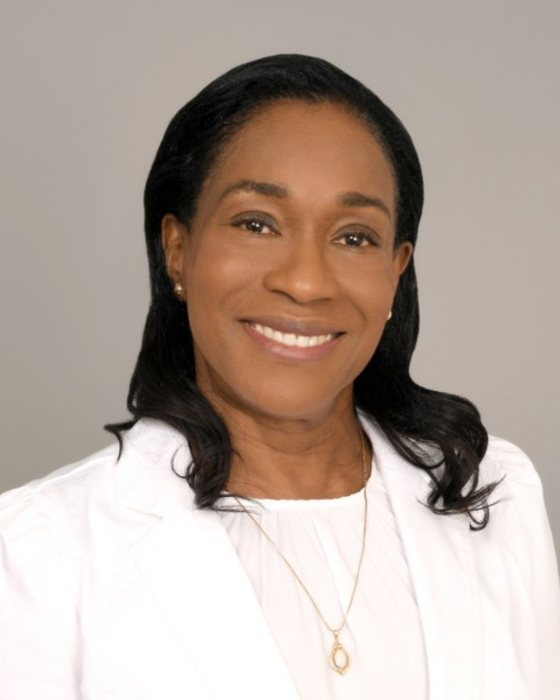
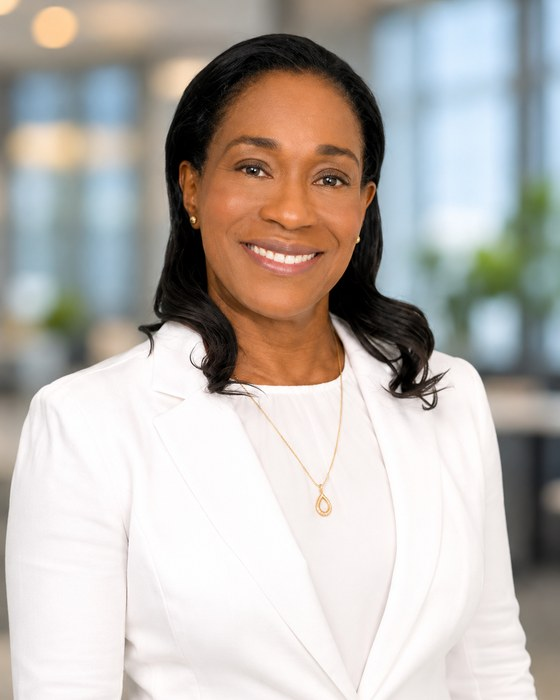
About Us: new headshots for Gilbert, Eric and Jean; Volt bios for Eric and Jean
Claude-Session: https://claude.ai/code/session_01Y88u6Pv9KQcZxehpsKVYXW

diff --git a/index.html b/index.html
@@ -1093,7 +1093,7 @@ window.addEventListener('hashchange',route); route();
  b.addEventListener('click',()=>{v.paused?v.play().catch(()=>{}):v.pause();});
  v.play?.().catch(()=>set(false));})();
 
-const LEADERS=[["Lauren Strickland", "img/team/lauren-strickland.jpg", "Deputy Executive Director", ["Sharing the Power Foundation"], "Lauren Strickland is the Deputy Executive Director for the Sharing the Power Foundation. She previously served as the Director of Clean Jobs and Environmental Justice Programs for the Foundation, a national philanthropic non-profit that advances environmental justice and an inclusive clean energy future through grantmaking and seeding the next generation of environmental leaders. In this role, Lauren leads special programs and supports strategic efforts for the Foundation.|Lauren is an inaugural 2023 Dream.Org Green for All Business Council Fellow. The fellowship provides clean energy career opportunities for fellows with leading diverse-owned clean tech firms. Prior to joining the Sharing the Power Foundation, Lauren worked as a business development executive in the hospitality industry for over ten years, developing innovative strategies and leading expansion efforts for leading hospitality groups. She has been recognized as Leader of the Year by the Denihan Hospitality Group.|Lauren is a lifelong social justice advocate. She served on the board of IMPACT, a political advocacy and social impact non-profit based in Washington, DC, where she oversaw key partnerships with Capitol Hill and other key lawmakers across the country. Lauren has served on KIPP DC’s Ambassador Board and has worked with two presidential campaigns and various state-level campaigns. Lauren graduated from Howard University with a Journalism degree from Howard’s School of Communications."], ["Tylitha H. Stewart", "img/team/tylitha-h-stewart.jpg", "Senior Advisor", ["Sharing the Power Foundation"], "Tylitha H. Stewart, Senior Advisor, assists Sharing the Power in strategic planning and operational efficiency. She has extensive experience and proven success as an executive strategist, operator, and transformation advisor who has spent more than two decades building businesses, products, and growth strategies across Fortune 50 companies, the public sector, and non-profit organizations.|Tylitha served as SVP and Global Head of Consumer Digital Services at Hewlett-Packard (HP) and spent roughly a decade at Microsoft, where her work ranged from finance and business performance to product marketing and ultimately global consumer strategy and go-to-market for Surface Devices & Accessories. Her executive resume documents responsibility for global product management, strategy and planning for a $4 billion first-party devices and accessories business across 46 markets, as well as earlier responsibility for investment strategy and performance across Microsoft’s multi-billion-dollar devices business.|Tylitha is also Founder and Principal of Vayana Consulting, a strategy and transformation advisory firm helping leaders and organizations turn ambitious ideas into clear strategies and measurable results."], ["Jaron Dandridge", "img/team/jaron-dandridge.jpg", "Director of Community Engagement and Program Evaluation", [], "Jaron Dandridge serves as the Director of Community Engagement and Program Evaluation for Sharing the Power Foundation, overseeing outreach to the awardee organizations which receive foundation grants. He maintains a specific focus on evaluating the organizations’ overall effectiveness in accomplishing the primary funding objectives and measuring the use of grant funds across major impact categories, which may include: services that provide assistance and programs to communities in need of access to clean air, water and renewable energy; workforce training opportunities in clean energy careers; home weatherization and utility bill payment assistance; and outreach programs to small and diverse businesses geared towards participation in the clean energy economy. Jaron also engages in community needs assessment designed to provide corporate partners with recommendations on historically marginalized communities which may need assistance.|Jaron has been a champion of community engagement throughout his professional career. As a member of the Henrico County Planning Commission in his hometown of Richmond, Virginia, he is an advisor to the municipal governing body on issues and policies affecting numerous community stakeholders relating to energy, planning, land use regulations, rezoning requests, and development. An engineer by training, Jaron spent a large portion of his professional career as a manufacturing manager for several large companies across Virginia and Maryland, where he was recognized as a standout leader and spearheaded several continuous improvement projects.|Jaron received his Bachelor of Science in Electrical Engineering from Hampton University. Before transitioning to management, his career included working as a Nuclear Test Engineer for Newport News Shipbuilding, now Northrop Grumman. Most recently, he worked in the aerospace industry as a manager at Eaton Corporation in Beltsville, Maryland. Jaron also serves as a liaison between the foundation and Volt Energy Utility, which established the Sharing the Power Foundation as an independent not-for-profit entity."], ["Destiny Okonkwo", "img/team/destiny-okonkwo.jpg", "Fellowship Operations & Partnerships Lead", ["Sharing the Power Foundation"], "Destiny Okonkwo serves as the Fellowship Operations & Partnerships Lead at the Sharing the Power Foundation, where she oversees key aspects of the Foundation’s HBCU Energy and Sustainability Fellowship, including program operations, Fellow engagement, professional development, and strategic partnerships. Through her work, she is committed to expanding opportunities and creating meaningful pathways for the next generation of leaders in clean energy, sustainability, and environmental justice.|Destiny earned both her Master of Public Administration, with a concentration in Urban Planning and Environmental Policy, and her Bachelor of Arts in Political Science from Texas Southern University. Her professional and academic experiences reflect her passion for environmental justice, public policy, community development, and energy equity."], ["Jean Nelson-Houpert", "img/team/jean-nelson-houpert.jpg", "Financial Counselor", ["Sharing the Power Foundation"], "Jean Nelson-Houpert is the Chief Financial Officer (CFO) of Volt Energy Utility, a national minority-owned utility-scale developer in Washington, DC, and the Financial Counselor at Sharing the Power Foundation. She oversees all financial aspects of the company, ensuring its continued success and stability. Jean volunteers financial counsel to the Sharing the Power Foundation to support organizations that provide services to urban and rural communities disproportionately affected by climate change, air and water pollution, and inaccessibility to renewable energy opportunities.|With over 25 years of experience in finance, public, and corporate accounting, Jean served as the inaugural Chief Financial Officer and Interim CEO at the DC Green Bank for three years, leading the organization from its inception until September 2023. She began her career in public accounting as a financial institution specialist with Grant Thornton, LLP, and has served in corporate positions as interim CEO, Chief Financial Officer, and Director of Accounting at various organizations.|Jean received her Bachelor of Business Administration (BBA) in Finance, graduating cum laude from Temple University’s Fox School of Business, and a Master of Jurisprudence in Labor and Employment from Tulane Law School. She also holds a certification from Columbia Business School in environmental, social, and governance (ESG) investing and a certificate in Sustainable Management.|Jean serves on the Board of Directors of Women of Renewable Industries and Sustainable Energy (WRISE), the Advisory Council of the Washington Area Community Investment Fund (Wacif), and the advisory boards of Village Capital and Halcyon House."], ["Gilbert Campbell", "img/team/gilbert-campbell.jpg", "Foundation Board Chair", ["Founder & CEO", "Volt Energy Utility"], "Gilbert Campbell is the founder and chief executive officer of Volt Energy Utility, a national clean energy firm that develops utility-scale solar and energy storage projects. Under his leadership, Volt has successfully developed over 350 MW of utility-scale solar projects for Fortune 100 corporations. These projects include significant investment in local communities through the Community Impact Power Purchase Agreement (PPA) model Volt pioneered. Volt signed a historic deal with Microsoft to deliver 250 MW of utility-scale solar under its Community Impact PPA model. Volt has also developed utility-scale solar projects for Google and other companies under this model.|Campbell chairs the board of Sharing the Power Foundation, an independent 501(c)(3) nonprofit established by Volt to help carry out those community commitments. The foundation works with local organizations to support workforce and economic development, energy affordability, STEM education, and community health. It has invested more than $4 million in rural and urban communities across the country, including $1 million in scholarships for students at historically Black colleges and universities.|Campbell advocates for energy policies that accelerate clean energy deployment, support workforce and economic development, and benefit local communities. He regularly advises federal and local officials, corporations, and other stakeholders on energy policy and best practices. He has worked closely with members of Congress from both parties on clean energy legislation and has testified before Congress on several occasions.|Campbell serves on the boards of the Solar Energy Industries Association and the American Association of Blacks in Energy, where he chairs the Entrepreneurship Committee. He recently completed his term on the board of the Clean Energy Buyers Alliance (CEBA) and previously served on the 3Degrees Advisory Board.|In 2016, the Obama administration recognized Campbell’s leadership in advancing climate equity with a White House Champions of Change Award. He was also named to EBONY magazine’s Power 100 list and received the Amtrak and Washington Wizards Pioneer Award. Campbell graduated magna cum laude from Howard University with a B.B.A. in finance and completed postgraduate leadership training at Harvard University."], ["Eli Hopson", "img/team/eli-hopson.jpg", "Foundation Board Member", ["Executive Director & Chief Operating Officer", "Coalition for Green Capital"], "Eli Hopson is the Executive Director and Chief Operating Officer at the Coalition for Green Capital, which works to create and serve sustainable finance institutions that serve low income and disadvantaged communities. Previously Eli served as the inaugural CEO of the DC Green Bank, Vice President of Legal and Chief Compliance Officer at Eagle Creek Renewable Energy and its predecessor Cube Hydro Partners.|Hopson’s experience also includes roles at Latham & Watkins LLP, the Union of Concerned Scientists, the U.S. House of Representatives Committee on Science, Georgetown Climate Center, and the Office of Energy Efficiency and Renewable Energy at the U.S. Department of Energy. He received his bachelor’s degree and Master of Engineering in environmental engineering from the Massachusetts Institute of Technology, and a law degree from the Georgetown University Law Center."], ["Dr. Pamela Carpenter", "img/team/pamela-carpenter.jpg", "Foundation Board Member", ["Founder", "The Healing Oak, LLC"], "Dr. Pam Page Carpenter is the Founder of The Healing Oak, LLC. She has served as the Director of Education and Workforce programs for the PowerAmerica Institute and the Future Renewable Electric Energy Delivery and Management (FREEDM) Systems Center headquartered at North Carolina State University.|Dr. Carpenter has developed and led science, technology, engineering, and mathematics (STEM) programs for secondary and post-secondary education for renewable energy, sustainability, and alternative transportation. She was affiliated associate professor in the Technology, Engineering, and Design department at NC State and earned her doctorate in Technology, Engineering, and Design in the College of Education at NC State University. She is a consultant in clean energy education, training, and workforce. Dr. Carpenter is also a psychotherapist working with clients in a holistic and wellness model to empower her clients. She lives in Raleigh, NC."], ["Nedra Dickson", "img/team/nedra-dickson.jpg", "Foundation Board Member", ["Managing Director", "Accenture"], "Nedra Dickson, Managing Director, leads Accenture’s Client Global Supplier Diversity and Sustainability Programs across 20 countries. With strong expertise in procurement transformation and supplier relationship management, she has managed over $2B in contingent labor spend.|Within her current roles, Nedra oversees Accenture’s procurement and client opportunities with diverse-owned businesses globally. To create an inclusive procurement community, Nedra is credited with expanding Accenture’s award-winning, world-renowned diverse supplier mentoring program, the Diverse Supplier Development Program (DSDP). This program represents a customized curriculum set around helping to grow and develop diverse businesses, to support their successful integration into Accenture’s global supply chain.|Nedra holds several Board of Director positions within the supplier diversity community: Women Business Enterprise National Council (WBENC), Georgia Minority Supplier Diversity Council (GMSDC), Canadian Aboriginal Supplier Development Council (CAMSC), Disability:IN, National LGBT Chamber of Commerce (NGLCC), and Founding Board Member of GSDA – Global Supplier Diversity Alliance.|Nedra was recognized by Atlanta Business Chronicle as one of the Top Diversity and Inclusion Officers of Atlanta, Global Supplier Diversity Champion by NGLCC, Georgia Top 25 Women in their Female Success Factor Series, WE magazine as one of America’s Top 100 Leaders in Corporate Supplier Diversity, Top 25 Women in Power Impacting Diversity, WBENC Corporate Mentor of the Year, USAPCC-SE region Mentor of the Year, Top 30 Champions in Diversity, and she was selected in Leadership Atlanta – class of 2022.|Nedra grew up in Arkansas and holds an MBA from the University of Southern California, a BS degree from Florida State University and a BA degree from California State University, Northridge. Nedra enjoys traveling and has been to over 65 countries. She also enjoys reading and playing golf in her spare time."], ["Paula Glover", "img/team/paula-glover.jpg", "Foundation Board Member", ["President", "Alliance to Save Energy"], "Paula R. Glover has served as President of the Alliance to Save Energy since January 2021 and has been a member of the Board of Directors since 2017. Ms. Glover is the seventh president in the Alliance’s 45-year history. Her leadership at the Alliance is driven by her belief that universal adoption of energy efficiency is foundational to achieving energy affordability, economic growth, and decarbonization. She is responsible for working with the Alliance’s diverse coalition of stakeholders to find lasting, consensus-based solutions. During her tenure, the Alliance has secured billions of dollars in federal funding for energy efficiency programs, amplified its work on energy justice, and worked to advance the next generation of technologies with the Active Efficiency Collaborative.|Ms. Glover previously served as President and CEO of the American Association of Blacks in Energy, a non-profit professional association whose focus is to ensure that African Americans and other minorities have input into the discussions and development of energy policy, regulations, and environmental issues. She serves on the board of the Keystone Policy Center and Groundswell, a community solar development organization. She is also a Trustee for Cardigan Mountain School, a junior boarding school in Canaan, NH. She received her B.S. in Marketing Management from the University of Delaware."], ["Dr. Janelle Burke", "img/team/janelle-burke.jpg", "Foundation Board Member", ["Director of the Interdisciplinary Environmental Studies Program", "Howard University"], "Dr. Janelle Burke is an Associate Professor of Biology and Director of the Interdisciplinary Environmental Studies Program at Howard University. Trained as a botanist, her research expertise is in plant evolution and diversity.|At Howard University, she has served in a leadership role to develop and grow the Environmental Studies and Science program, which was launched in 2016. She has also been instrumental in securing multiple grants and partnerships to support this program and its associated student opportunities. She has a passion for developing innovative, interdisciplinary curricula that prepare HBCU students for leadership roles in environmental and sustainability careers."], ["Dr. Olubemiga Olatidoye", "img/team/olubemiga-olatidoye.jpg", "Foundation Board Member", ["Professor of Engineering", "Clark Atlanta University"], "Dr. Olugbemiga Olatidoye is a Professor of Engineering and the Founder and Director of the Visualization, Simulation and Design Laboratory (ViSiDeL), a virtual reality lab, at Clark Atlanta University (CAU). Other centers that he directs at CAU are the Center for Alternative, Renewable Energy, Technology and Training (CARET2), Atlanta University Center (AUC) Sustainable Campus Community Initiatives (ASCCI), Center for Additive Manufacturing (CAM), Atlanta Electronic Commerce Resource Center (AECRC), Army High Performance Computing Research Center (AHPCRC) and DoD Major Shared Resource Center (Army Research Laboratory (ARL), Army Corps of Engineers Waterways Experiment Station (CEWES), Aeronautical Systems Center (ASC) Wright-Patterson Air Force Base) and Georgia Industrial Assessment Center (GIAC). All centers are Department of Defense (DoD) and Department of Energy (DOE) funded projects.|He served as the Coordinator of the Dual Degree Engineering Program at CAU, which led to the creation of the Engineering Department at CAU in 1994. Dr. Olatidoye received his Bachelor’s degree in Architectural Engineering in the area of Structures from North Carolina A&T State University in 1982. He completed his Master’s degree in Architecture at Virginia Polytechnic Institute and State University, and a Master’s degree in Civil Engineering in Engineering Computer Graphics at Georgia Tech, Atlanta. Other degrees from Georgia Tech are in Knowledge Engineering and a Doctorate with emphasis on Intelligent Graphics. He was a member of the Board of Directors at Georgia Tech."], ["Eric Grant", "img/team/eric-grant.jpg", "Foundation Board Member", ["Partner", "Volt Energy Utility"], "Eric is responsible for Volt’s external affairs, marketing and communications. He also directs the management and governance of the Environmental Justice Community Impact Fund, as stipulated in the Environmental Justice Power Purchase Agreement™.|Eric has over 20 years of experience in the energy sector. As former vice president of government affairs and communications for WGL Energy and Washington Gas, he directed the company’s multi-state government and public affairs, federal government affairs, external and crisis communications, media relations, branding and corporate giving. His government affairs team led the lobbying efforts for the landmark utility infrastructure repair and replacement law in Maryland and the District of Columbia. Early in his career, he served as manager of state government affairs at The American Petroleum Institute. For almost a decade, he served as spokesperson, director of communications, public affairs and corporate philanthropy at The Washington Post.|His non-profit experience includes five years as director of cause marketing and mega city grants for Special Olympics, Inc., structuring major corporate sponsorships with such companies as Lands’ End, Subaru, Raymond Co., AMF, and Hoyle Cards. He has served on several boards including Volt Energy, LLC, the DC and Maryland Chambers of Commerce, Red Cross – National Capital Region, and the Black Student Fund. Eric is a graduate of Dartmouth College and the Landegger International Business Executive Program at Georgetown University."]];
+const LEADERS=[["Lauren Strickland", "img/team/lauren-strickland.jpg", "Deputy Executive Director", ["Sharing the Power Foundation"], "Lauren Strickland is the Deputy Executive Director for the Sharing the Power Foundation. She previously served as the Director of Clean Jobs and Environmental Justice Programs for the Foundation, a national philanthropic non-profit that advances environmental justice and an inclusive clean energy future through grantmaking and seeding the next generation of environmental leaders. In this role, Lauren leads special programs and supports strategic efforts for the Foundation.|Lauren is an inaugural 2023 Dream.Org Green for All Business Council Fellow. The fellowship provides clean energy career opportunities for fellows with leading diverse-owned clean tech firms. Prior to joining the Sharing the Power Foundation, Lauren worked as a business development executive in the hospitality industry for over ten years, developing innovative strategies and leading expansion efforts for leading hospitality groups. She has been recognized as Leader of the Year by the Denihan Hospitality Group.|Lauren is a lifelong social justice advocate. She served on the board of IMPACT, a political advocacy and social impact non-profit based in Washington, DC, where she oversaw key partnerships with Capitol Hill and other key lawmakers across the country. Lauren has served on KIPP DC’s Ambassador Board and has worked with two presidential campaigns and various state-level campaigns. Lauren graduated from Howard University with a Journalism degree from Howard’s School of Communications."], ["Tylitha H. Stewart", "img/team/tylitha-h-stewart.jpg", "Senior Advisor", ["Sharing the Power Foundation"], "Tylitha H. Stewart, Senior Advisor, assists Sharing the Power in strategic planning and operational efficiency. She has extensive experience and proven success as an executive strategist, operator, and transformation advisor who has spent more than two decades building businesses, products, and growth strategies across Fortune 50 companies, the public sector, and non-profit organizations.|Tylitha served as SVP and Global Head of Consumer Digital Services at Hewlett-Packard (HP) and spent roughly a decade at Microsoft, where her work ranged from finance and business performance to product marketing and ultimately global consumer strategy and go-to-market for Surface Devices & Accessories. Her executive resume documents responsibility for global product management, strategy and planning for a $4 billion first-party devices and accessories business across 46 markets, as well as earlier responsibility for investment strategy and performance across Microsoft’s multi-billion-dollar devices business.|Tylitha is also Founder and Principal of Vayana Consulting, a strategy and transformation advisory firm helping leaders and organizations turn ambitious ideas into clear strategies and measurable results."], ["Jaron Dandridge", "img/team/jaron-dandridge.jpg", "Director of Community Engagement and Program Evaluation", [], "Jaron Dandridge serves as the Director of Community Engagement and Program Evaluation for Sharing the Power Foundation, overseeing outreach to the awardee organizations which receive foundation grants. He maintains a specific focus on evaluating the organizations’ overall effectiveness in accomplishing the primary funding objectives and measuring the use of grant funds across major impact categories, which may include: services that provide assistance and programs to communities in need of access to clean air, water and renewable energy; workforce training opportunities in clean energy careers; home weatherization and utility bill payment assistance; and outreach programs to small and diverse businesses geared towards participation in the clean energy economy. Jaron also engages in community needs assessment designed to provide corporate partners with recommendations on historically marginalized communities which may need assistance.|Jaron has been a champion of community engagement throughout his professional career. As a member of the Henrico County Planning Commission in his hometown of Richmond, Virginia, he is an advisor to the municipal governing body on issues and policies affecting numerous community stakeholders relating to energy, planning, land use regulations, rezoning requests, and development. An engineer by training, Jaron spent a large portion of his professional career as a manufacturing manager for several large companies across Virginia and Maryland, where he was recognized as a standout leader and spearheaded several continuous improvement projects.|Jaron received his Bachelor of Science in Electrical Engineering from Hampton University. Before transitioning to management, his career included working as a Nuclear Test Engineer for Newport News Shipbuilding, now Northrop Grumman. Most recently, he worked in the aerospace industry as a manager at Eaton Corporation in Beltsville, Maryland. Jaron also serves as a liaison between the foundation and Volt Energy Utility, which established the Sharing the Power Foundation as an independent not-for-profit entity."], ["Destiny Okonkwo", "img/team/destiny-okonkwo.jpg", "Fellowship Operations & Partnerships Lead", ["Sharing the Power Foundation"], "Destiny Okonkwo serves as the Fellowship Operations & Partnerships Lead at the Sharing the Power Foundation, where she oversees key aspects of the Foundation’s HBCU Energy and Sustainability Fellowship, including program operations, Fellow engagement, professional development, and strategic partnerships. Through her work, she is committed to expanding opportunities and creating meaningful pathways for the next generation of leaders in clean energy, sustainability, and environmental justice.|Destiny earned both her Master of Public Administration, with a concentration in Urban Planning and Environmental Policy, and her Bachelor of Arts in Political Science from Texas Southern University. Her professional and academic experiences reflect her passion for environmental justice, public policy, community development, and energy equity."], ["Jean Nelson-Houpert", "img/team/jean-nelson-houpert.jpg", "Financial Counselor", ["Sharing the Power Foundation"], "Jean Nelson-Houpert is the Chief Financial Officer (CFO) of Volt Energy Utility, a national Minority-Owned utility-scale developer in Washington, DC, and the Financial Counselor at Sharing The Power Foundation. She oversees all financial aspects of the company, ensuring its continued success and stability. Additionally, Jean volunteers financial counsel to the Sharing the Power Foundation, the nonprofit arm of Volt Energy Utility, to support organizations that provide services to urban and rural communities disproportionately affected by climate change, air and water pollution, and inaccessibility to renewable energy opportunities.|With over 25 years of experience in finance, public, and corporate accounting, Jean served as the inaugural Chief Financial Officer and Interim CEO at the DC Green Bank for three years, leading the organization from its inception until September 2023. She began her career in public accounting as a financial institution specialist with Grant Thornton, LLP. She served incorporate positions as interim CEO, Chief Financial Officer, and Director of Accounting at various organizations.|Jean received her Bachelor of Business Administration (BBA) in Finance, graduating cum laude from Temple University's Fox School of Business, and acquired a Master of Jurisprudence in Labor and Employment from Tulane Law School. She also holds a certification from Columbia Business School in environmental, social, and governance (ESG) Investing and a certificate in Sustainable Management. Jean serves on the Board of Directors of Women of Renewable Industries and Sustainable Energy (WRISE), the Advisory Council of the Washington Area Community Investment Fund (Wacif), and the advisory boards of Village Capital and Halcyon House."], ["Gilbert Campbell", "img/team/gilbert-campbell.jpg", "Foundation Board Chair", ["Founder & CEO", "Volt Energy Utility"], "Gilbert Campbell is the founder and chief executive officer of Volt Energy Utility, a national clean energy firm that develops utility-scale solar and energy storage projects. Under his leadership, Volt has successfully developed over 350 MW of utility-scale solar projects for Fortune 100 corporations. These projects include significant investment in local communities through the Community Impact Power Purchase Agreement (PPA) model Volt pioneered. Volt signed a historic deal with Microsoft to deliver 250 MW of utility-scale solar under its Community Impact PPA model. Volt has also developed utility-scale solar projects for Google and other companies under this model.|Campbell chairs the board of Sharing the Power Foundation, an independent 501(c)(3) nonprofit established by Volt to help carry out those community commitments. The foundation works with local organizations to support workforce and economic development, energy affordability, STEM education, and community health. It has invested more than $4 million in rural and urban communities across the country, including $1 million in scholarships for students at historically Black colleges and universities.|Campbell advocates for energy policies that accelerate clean energy deployment, support workforce and economic development, and benefit local communities. He regularly advises federal and local officials, corporations, and other stakeholders on energy policy and best practices. He has worked closely with members of Congress from both parties on clean energy legislation and has testified before Congress on several occasions.|Campbell serves on the boards of the Solar Energy Industries Association and the American Association of Blacks in Energy, where he chairs the Entrepreneurship Committee. He recently completed his term on the board of the Clean Energy Buyers Alliance (CEBA) and previously served on the 3Degrees Advisory Board.|In 2016, the Obama administration recognized Campbell’s leadership in advancing climate equity with a White House Champions of Change Award. He was also named to EBONY magazine’s Power 100 list and received the Amtrak and Washington Wizards Pioneer Award. Campbell graduated magna cum laude from Howard University with a B.B.A. in finance and completed postgraduate leadership training at Harvard University."], ["Eli Hopson", "img/team/eli-hopson.jpg", "Foundation Board Member", ["Executive Director & Chief Operating Officer", "Coalition for Green Capital"], "Eli Hopson is the Executive Director and Chief Operating Officer at the Coalition for Green Capital, which works to create and serve sustainable finance institutions that serve low income and disadvantaged communities. Previously Eli served as the inaugural CEO of the DC Green Bank, Vice President of Legal and Chief Compliance Officer at Eagle Creek Renewable Energy and its predecessor Cube Hydro Partners.|Hopson’s experience also includes roles at Latham & Watkins LLP, the Union of Concerned Scientists, the U.S. House of Representatives Committee on Science, Georgetown Climate Center, and the Office of Energy Efficiency and Renewable Energy at the U.S. Department of Energy. He received his bachelor’s degree and Master of Engineering in environmental engineering from the Massachusetts Institute of Technology, and a law degree from the Georgetown University Law Center."], ["Dr. Pamela Carpenter", "img/team/pamela-carpenter.jpg", "Foundation Board Member", ["Founder", "The Healing Oak, LLC"], "Dr. Pam Page Carpenter is the Founder of The Healing Oak, LLC. She has served as the Director of Education and Workforce programs for the PowerAmerica Institute and the Future Renewable Electric Energy Delivery and Management (FREEDM) Systems Center headquartered at North Carolina State University.|Dr. Carpenter has developed and led science, technology, engineering, and mathematics (STEM) programs for secondary and post-secondary education for renewable energy, sustainability, and alternative transportation. She was affiliated associate professor in the Technology, Engineering, and Design department at NC State and earned her doctorate in Technology, Engineering, and Design in the College of Education at NC State University. She is a consultant in clean energy education, training, and workforce. Dr. Carpenter is also a psychotherapist working with clients in a holistic and wellness model to empower her clients. She lives in Raleigh, NC."], ["Nedra Dickson", "img/team/nedra-dickson.jpg", "Foundation Board Member", ["Managing Director", "Accenture"], "Nedra Dickson, Managing Director, leads Accenture’s Client Global Supplier Diversity and Sustainability Programs across 20 countries. With strong expertise in procurement transformation and supplier relationship management, she has managed over $2B in contingent labor spend.|Within her current roles, Nedra oversees Accenture’s procurement and client opportunities with diverse-owned businesses globally. To create an inclusive procurement community, Nedra is credited with expanding Accenture’s award-winning, world-renowned diverse supplier mentoring program, the Diverse Supplier Development Program (DSDP). This program represents a customized curriculum set around helping to grow and develop diverse businesses, to support their successful integration into Accenture’s global supply chain.|Nedra holds several Board of Director positions within the supplier diversity community: Women Business Enterprise National Council (WBENC), Georgia Minority Supplier Diversity Council (GMSDC), Canadian Aboriginal Supplier Development Council (CAMSC), Disability:IN, National LGBT Chamber of Commerce (NGLCC), and Founding Board Member of GSDA – Global Supplier Diversity Alliance.|Nedra was recognized by Atlanta Business Chronicle as one of the Top Diversity and Inclusion Officers of Atlanta, Global Supplier Diversity Champion by NGLCC, Georgia Top 25 Women in their Female Success Factor Series, WE magazine as one of America’s Top 100 Leaders in Corporate Supplier Diversity, Top 25 Women in Power Impacting Diversity, WBENC Corporate Mentor of the Year, USAPCC-SE region Mentor of the Year, Top 30 Champions in Diversity, and she was selected in Leadership Atlanta – class of 2022.|Nedra grew up in Arkansas and holds an MBA from the University of Southern California, a BS degree from Florida State University and a BA degree from California State University, Northridge. Nedra enjoys traveling and has been to over 65 countries. She also enjoys reading and playing golf in her spare time."], ["Paula Glover", "img/team/paula-glover.jpg", "Foundation Board Member", ["President", "Alliance to Save Energy"], "Paula R. Glover has served as President of the Alliance to Save Energy since January 2021 and has been a member of the Board of Directors since 2017. Ms. Glover is the seventh president in the Alliance’s 45-year history. Her leadership at the Alliance is driven by her belief that universal adoption of energy efficiency is foundational to achieving energy affordability, economic growth, and decarbonization. She is responsible for working with the Alliance’s diverse coalition of stakeholders to find lasting, consensus-based solutions. During her tenure, the Alliance has secured billions of dollars in federal funding for energy efficiency programs, amplified its work on energy justice, and worked to advance the next generation of technologies with the Active Efficiency Collaborative.|Ms. Glover previously served as President and CEO of the American Association of Blacks in Energy, a non-profit professional association whose focus is to ensure that African Americans and other minorities have input into the discussions and development of energy policy, regulations, and environmental issues. She serves on the board of the Keystone Policy Center and Groundswell, a community solar development organization. She is also a Trustee for Cardigan Mountain School, a junior boarding school in Canaan, NH. She received her B.S. in Marketing Management from the University of Delaware."], ["Dr. Janelle Burke", "img/team/janelle-burke.jpg", "Foundation Board Member", ["Director of the Interdisciplinary Environmental Studies Program", "Howard University"], "Dr. Janelle Burke is an Associate Professor of Biology and Director of the Interdisciplinary Environmental Studies Program at Howard University. Trained as a botanist, her research expertise is in plant evolution and diversity.|At Howard University, she has served in a leadership role to develop and grow the Environmental Studies and Science program, which was launched in 2016. She has also been instrumental in securing multiple grants and partnerships to support this program and its associated student opportunities. She has a passion for developing innovative, interdisciplinary curricula that prepare HBCU students for leadership roles in environmental and sustainability careers."], ["Dr. Olubemiga Olatidoye", "img/team/olubemiga-olatidoye.jpg", "Foundation Board Member", ["Professor of Engineering", "Clark Atlanta University"], "Dr. Olugbemiga Olatidoye is a Professor of Engineering and the Founder and Director of the Visualization, Simulation and Design Laboratory (ViSiDeL), a virtual reality lab, at Clark Atlanta University (CAU). Other centers that he directs at CAU are the Center for Alternative, Renewable Energy, Technology and Training (CARET2), Atlanta University Center (AUC) Sustainable Campus Community Initiatives (ASCCI), Center for Additive Manufacturing (CAM), Atlanta Electronic Commerce Resource Center (AECRC), Army High Performance Computing Research Center (AHPCRC) and DoD Major Shared Resource Center (Army Research Laboratory (ARL), Army Corps of Engineers Waterways Experiment Station (CEWES), Aeronautical Systems Center (ASC) Wright-Patterson Air Force Base) and Georgia Industrial Assessment Center (GIAC). All centers are Department of Defense (DoD) and Department of Energy (DOE) funded projects.|He served as the Coordinator of the Dual Degree Engineering Program at CAU, which led to the creation of the Engineering Department at CAU in 1994. Dr. Olatidoye received his Bachelor’s degree in Architectural Engineering in the area of Structures from North Carolina A&T State University in 1982. He completed his Master’s degree in Architecture at Virginia Polytechnic Institute and State University, and a Master’s degree in Civil Engineering in Engineering Computer Graphics at Georgia Tech, Atlanta. Other degrees from Georgia Tech are in Knowledge Engineering and a Doctorate with emphasis on Intelligent Graphics. He was a member of the Board of Directors at Georgia Tech."], ["Eric Grant", "img/team/eric-grant.jpg", "Foundation Board Member", ["Partner", "Volt Energy Utility"], "Eric is responsible for Volt’s external affairs, marketing and communications. He also directs the management and governance of the Environmental Justice Community Impact Fund, as stipulated in the Environmental Justice Power Purchase Agreement ™. Eric has over 30 years of experience in the energy sector.|As former vice president of government affairs and communications for WGL Energy and Washington Gas, he directed the company’s multi-state government and public affairs, federal government affairs, external and crisis communications, media relations, branding and corporate giving. His government affairs team led the lobbying efforts for the landmark utility infrastructure repair and replacement law in Maryland and the District of Columbia. Early in his career, he served as manager of state government affairs at The American Petroleum Institute.|For almost a decade, he served as spokesperson, director of communications, public affairs and corporate philanthropy at The Washington Post. His non-profit experience included five years as director of cause marketing and mega city grants for Special Olympics, Inc., structuring major corporate sponsorships with such companies as Lands’ End, Subaru, Raymond Co., AMF, and Hoyle Cards. He has served on several boards including: Volt Energy, LLC., the DC and Maryland Chambers of Commerce, Red Cross - National Capital Region, and the Black Student Fund.|Eric is a graduate of Dartmouth College and the Landeggar International Business Executive Program at Georgetown University."]];
 document.getElementById('leaders').innerHTML=LEADERS.map(([n,img,t,lines],i)=>`<article class="leader"><div class="l-photo"><img src="${img}" alt="${esc(n)}" loading="lazy"></div><div class="l-body"><h3>${esc(n)}</h3><p class="l-title"><b>${esc(t)}</b>${lines.map(x=>`<br>${esc(x)}`).join('')}</p><button class="l-bio" type="button" data-i="${i}">Full bio</button></div></article>`).join('');
 const bd=document.getElementById('bio-dlg');
 document.getElementById('leaders').addEventListener('click',e=>{const b=e.target.closest('.l-bio'); if(!b) return; const [n,img,t,lines,bio]=LEADERS[+b.dataset.i];
